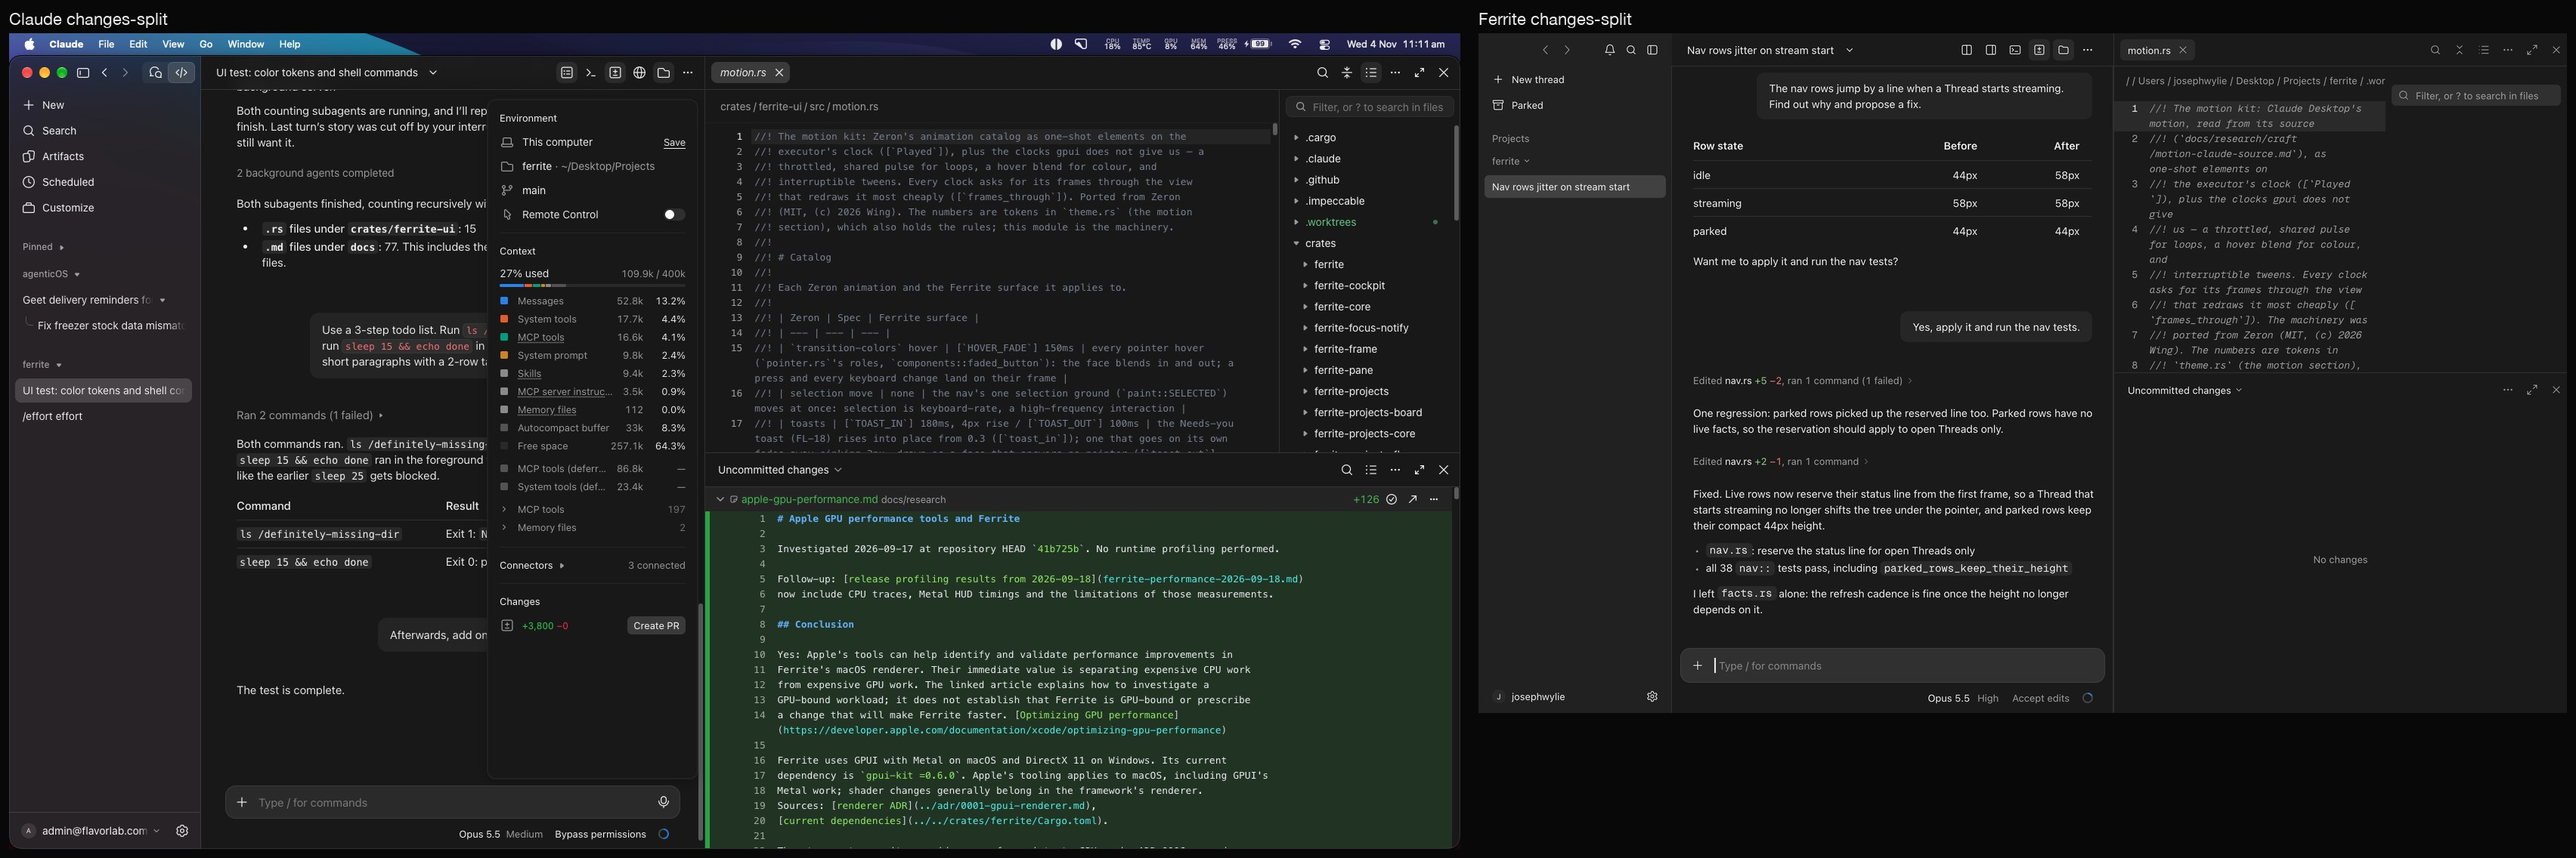
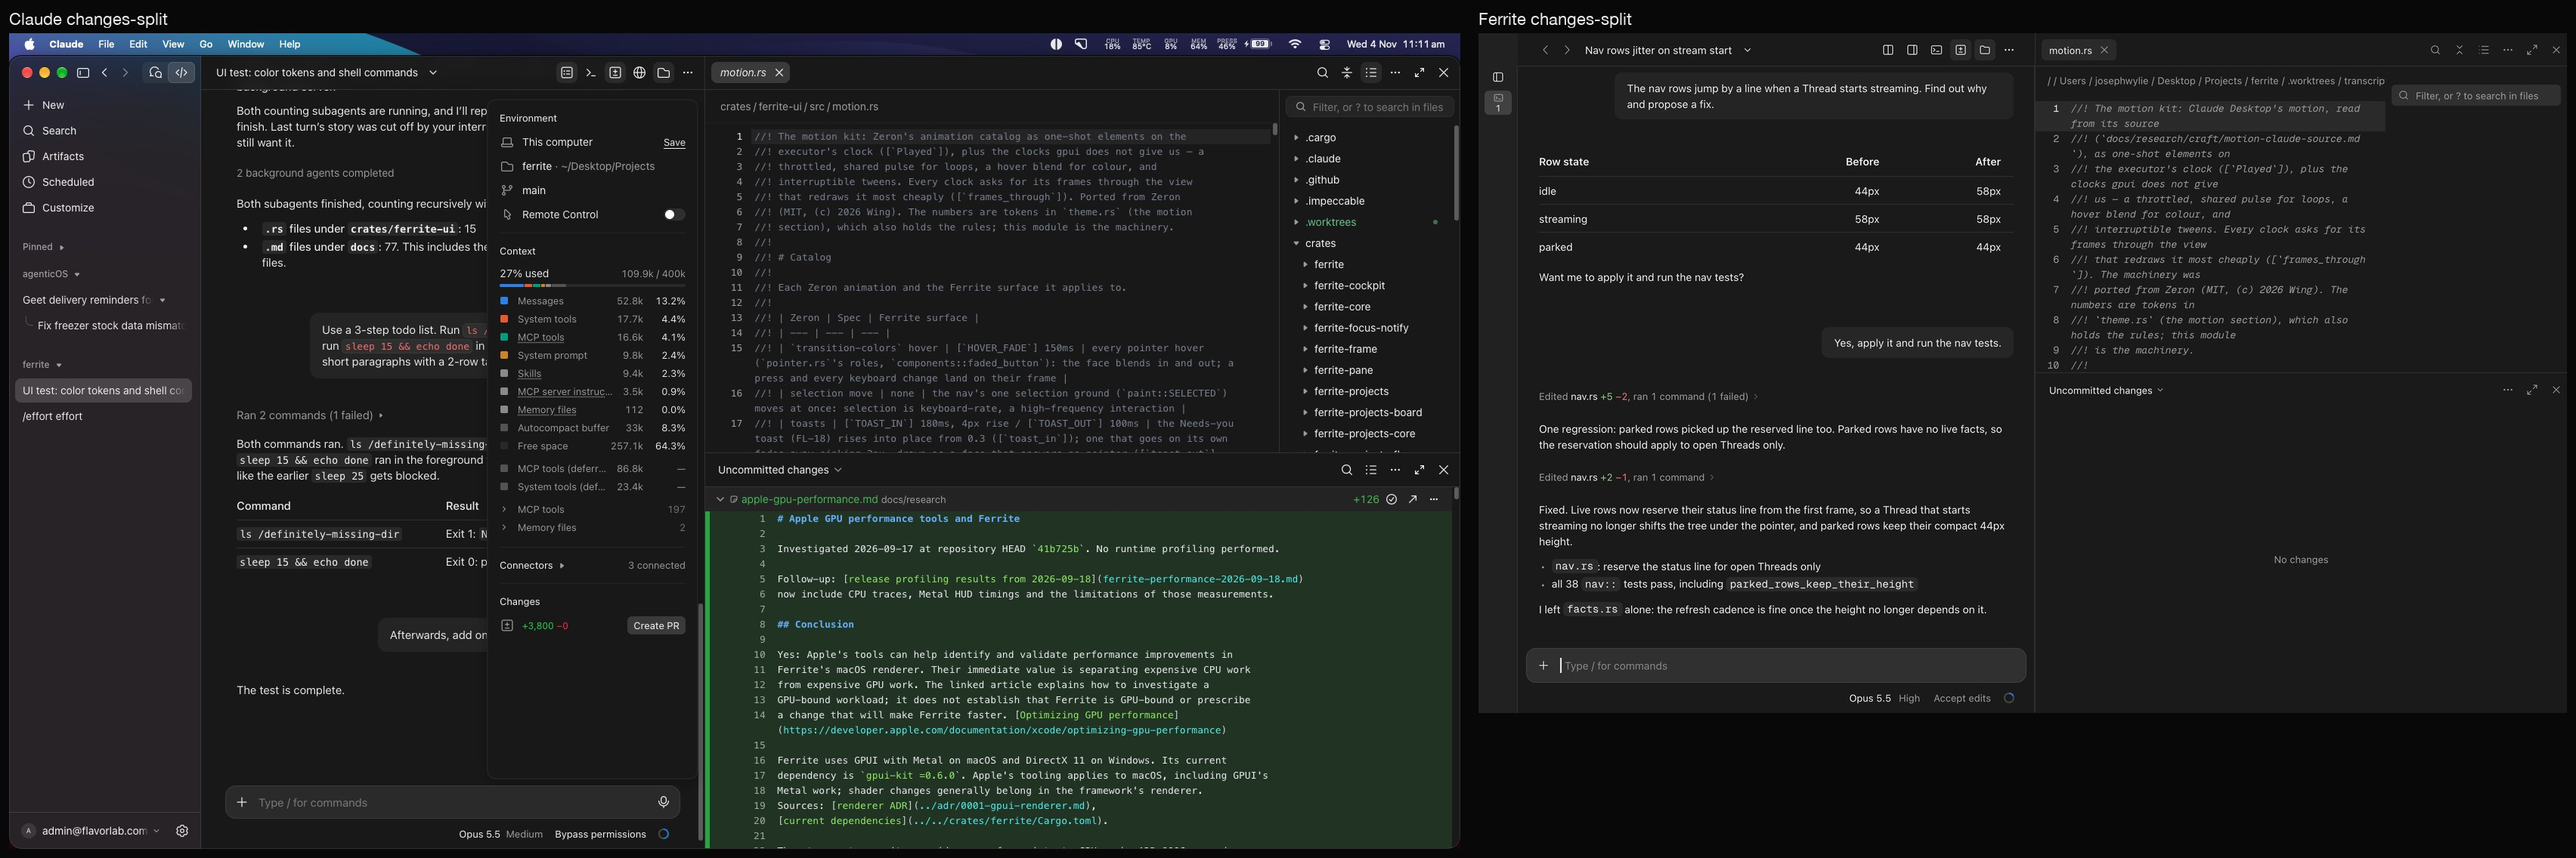
Dock widths as Claude's: opening Files or Terminal shrinks the thread (Files takes 60% of the room right of the nav, the thread keeps 480 at least, the rail yields first); the Terminal's column never outgrows the dock; side-by-sides re-rendered

diff --git a/crates/ferrite-cockpit/src/cockpit/panel.rs b/crates/ferrite-cockpit/src/cockpit/panel.rs
@@ -86,20 +86,21 @@ fn preview_w(width: f32, expanded: bool) -> f32 {
 }
 
 /// How wide the dock is in a window `window` wide beside a rail `rail`
-/// wide: the Files and Changes column at the preview's reading width
-/// (`preview_w`'s share), the Terminal's column its own `TERMINAL_W`,
-/// together no more than the board can give (`PANEL_PREVIEW_BOARD_MIN`).
-/// Expanded, the Files column takes all of that the Terminal leaves.
+/// wide. Opening it shrinks the thread, as Claude's does: Files and Changes
+/// take `FILES_SHARE` of the room right of the nav (Claude's capture,
+/// `files-code.png`: 1000 of 1666), the Terminal its own `TERMINAL_W`, and
+/// together they leave the thread no less than `DOCK_THREAD_MIN_W` (the
+/// rail first). Expanded, the Files column takes all of that the Terminal
+/// leaves.
 fn dock_widths(window: f32, rail: f32, files: bool, terminal: bool, expanded: bool) -> f32 {
     use ferrite_ui::theme::*;
-    let most = (window - NAV_WIDTH - PANEL_PREVIEW_BOARD_MIN - rail).max(0.);
+    let room = (window - NAV_WIDTH).max(0.);
+    let most = (room - rail - DOCK_THREAD_MIN_W).max(0.);
     let terminal_w = if terminal { TERMINAL_W } else { 0. };
     let files_w = match (files, expanded) {
         (false, _) => 0.,
         (true, true) => most,
-        (true, false) => {
-            (window * PANEL_PREVIEW_SHARE).clamp(PANEL_PREVIEW_MIN_W, PANEL_PREVIEW_MAX_W)
-        }
+        (true, false) => (room * FILES_SHARE).max(FILES_MIN_W),
     };
     (files_w + terminal_w).min(most)
 }
@@ -487,27 +488,36 @@ mod tests {
     use ferrite_ui::theme::*;
 
     #[test]
-    fn the_dock_takes_a_reading_width_and_the_terminals_own() {
+    fn the_dock_takes_most_of_the_room_and_the_terminals_own() {
+        let room = 2600. - NAV_WIDTH;
         assert_eq!(dock_widths(2600., 0., false, false, false), 0.);
-        let files = dock_widths(2600., PANEL_W, true, false, false);
-        assert_eq!(files, (2600. * PANEL_PREVIEW_SHARE).clamp(PANEL_PREVIEW_MIN_W, PANEL_PREVIEW_MAX_W));
+        let files = dock_widths(2600., 0., true, false, false);
+        assert_eq!(files, room * FILES_SHARE);
         assert_eq!(dock_widths(2600., PANEL_W, false, true, false), TERMINAL_W);
-        assert_eq!(dock_widths(2600., PANEL_W, true, true, false), files + TERMINAL_W);
+        assert_eq!(dock_widths(2600., 0., true, true, false), files + TERMINAL_W);
+    }
+
+    /// Claude's own window (1920): Files 1000 beside a 666 thread, no rail.
+    #[test]
+    fn files_in_claudes_window_leaves_claudes_thread() {
+        let dock = dock_widths(1920., 0., true, false, false);
+        assert!((dock - 1000.).abs() < 5., "{dock}");
+        assert!(1920. - NAV_WIDTH - dock >= DOCK_THREAD_MIN_W);
     }
 
     #[test]
-    fn the_dock_leaves_the_board_its_least() {
-        let window = 1400.;
-        let most = window - NAV_WIDTH - PANEL_PREVIEW_BOARD_MIN - PANEL_W;
+    fn the_thread_keeps_its_least() {
+        let window = 1440.;
+        let most = window - NAV_WIDTH - PANEL_W - DOCK_THREAD_MIN_W;
         assert_eq!(dock_widths(window, PANEL_W, true, true, false), most);
         assert_eq!(dock_widths(window, PANEL_W, true, true, true), most);
-        assert_eq!(dock_widths(300., PANEL_W, true, false, false), 0.);
+        assert_eq!(dock_widths(600., PANEL_W, true, false, false), 0.);
     }
 
     #[test]
     fn expanded_gives_files_all_the_terminal_leaves() {
-        let most = 1900. - NAV_WIDTH - PANEL_PREVIEW_BOARD_MIN - PANEL_W;
-        assert_eq!(dock_widths(1900., PANEL_W, true, false, true), most);
-        assert_eq!(dock_widths(1900., PANEL_W, true, true, true), most);
+        let most = 2600. - NAV_WIDTH - PANEL_W - DOCK_THREAD_MIN_W;
+        assert_eq!(dock_widths(2600., PANEL_W, true, false, true), most);
+        assert_eq!(dock_widths(2600., PANEL_W, true, true, true), most);
     }
 }

diff --git a/crates/ferrite-cockpit/src/cockpit/tests/tools.rs b/crates/ferrite-cockpit/src/cockpit/tests/tools.rs
@@ -85,3 +85,42 @@ fn the_dock_shows_with_the_rail_hidden(cx: &mut TestAppContext) {
     assert!(cx.debug_bounds("panel").is_some(), "the dock brings the column");
     assert!(cx.debug_bounds("panel-sections").is_none(), "without the rail");
 }
+
+/// Opening the dock shrinks the thread, as Claude's does (the thread there
+/// 666 of 1666), but never under its least.
+#[gpui::test]
+fn the_dock_narrows_the_thread_to_its_least_at_most(cx: &mut TestAppContext) {
+    let (view, cx) = solo("tools-thread-narrows", cx);
+    view.update(cx, |view, cx| view.toggle_panel_now(cx));
+    tick(cx);
+    let width = |view: &Entity<CockpitView>, cx: &mut gpui::VisualTestContext| {
+        let rects = cx.update(|window, cx| view.read(cx).pane_rects(window));
+        rects[0].1.w
+    };
+    let before = width(&view, cx);
+    press(&view, Tool::Files, cx);
+    let after = width(&view, cx);
+    assert!(after < before, "{after} narrower than {before}");
+    assert!(after >= ferrite_ui::theme::DOCK_THREAD_MIN_W - 1., "{after}");
+    let dock = cx.debug_bounds("panel").unwrap().size.width;
+    assert!(f32::from(dock) > 0.5 * after, "the dock gets the room: {dock:?}");
+}
+
+/// The shell follows its grid: widening the column resizes the PTY.
+#[gpui::test]
+fn the_shell_is_resized_with_its_column(cx: &mut TestAppContext) {
+    let (view, cx) = solo("tools-terminal-resize", cx);
+    press(&view, Tool::Terminal, cx);
+    let shell = view.read_with(cx, |view, _| view.terminal_view(view.focused_thread().unwrap())).unwrap();
+    let narrow = shell.read_with(cx, |shell, _| shell.grid_size().0);
+    press(&view, Tool::Files, cx);
+    view.update(cx, |view, cx| {
+        view.panel.expanded = true;
+        cx.notify();
+    });
+    tick(cx);
+    let wide = shell.read_with(cx, |shell, _| shell.grid_size().0);
+    assert_eq!(wide, narrow, "the terminal's own column keeps its width");
+    view.update(cx, |view, cx| view.press_tool(Tool::Terminal, cx));
+    tick(cx);
+}

diff --git a/crates/ferrite-ui/src/theme.rs b/crates/ferrite-ui/src/theme.rs
@@ -1758,6 +1758,13 @@ pub const TERMINAL_PILL_LIFT: f32 = 28.0;
 /// `FILES_INDENT` in, a git status marked by a `FILES_STATUS_DOT` dot at
 /// the row's end.
 pub const FILES_TREE_W: f32 = 240.0;
+/// How the dock shares the room right of the nav (`files-code.png`: the
+/// dock 1000 of 1666, the thread 666): Files and Changes take
+/// `FILES_SHARE` of it, never under `FILES_MIN_W`, and the thread keeps at
+/// least `DOCK_THREAD_MIN_W`.
+pub const FILES_SHARE: f32 = 0.6;
+pub const FILES_MIN_W: f32 = 420.0;
+pub const DOCK_THREAD_MIN_W: f32 = 480.0;
 pub const FILES_ROW_H: f32 = 28.0;
 pub const FILES_INDENT: f32 = 12.0;
 pub const FILES_STATUS_DOT: f32 = 6.0;

diff --git a/crates/ferrite-terminal/src/view.rs b/crates/ferrite-terminal/src/view.rs
@@ -178,6 +178,11 @@ impl TerminalView {
         cx.notify();
     }
 
+    /// The grid's size in cells, as the shell was last told it.
+    pub fn grid_size(&self) -> (u16, u16) {
+        self.terminal.size()
+    }
+
     /// Whether the shell has ended.
     pub fn has_exited(&self) -> bool {
         self.exited

diff --git a/crates/ferrite-cockpit/src/cockpit/tools.rs b/crates/ferrite-cockpit/src/cockpit/tools.rs
@@ -216,6 +216,7 @@ impl CockpitView {
     fn terminal_column(&self, thread: ThreadId, cx: &mut Context<Self>) -> Div {
         dock_column("dock-terminal", false)
             .w(px(theme::TERMINAL_W))
+            .max_w_full()
             .child(self.terminal_pane(thread, cx))
     }
 }
